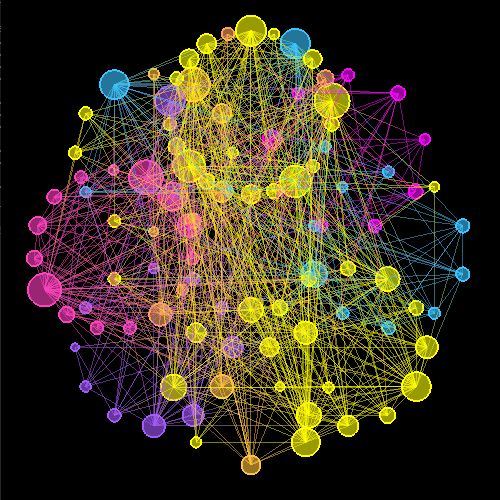
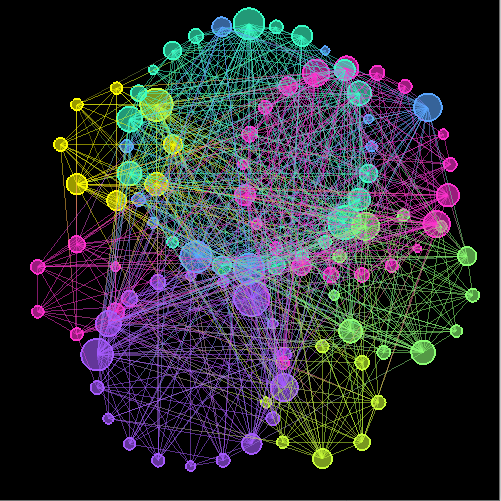
Improved vertex ring clustering

diff --git a/src/graphicobject.cpp b/src/graphicobject.cpp
@@ -31,10 +31,8 @@ void GraphicObject::WriteVertexRings(const std::vector<unsigned int>& communitie
     // param2: lower_bound of community radius
 
     float pi = 3.141592f;
-    const float global_radius = 0.55f;
-    const float global_angular_increment = 2.0f * pi / (float)n_communities;
-    const float param1 = 1.0f;
-    const float param2 = 0.3f;
+    const float param1 = 0.8f;
+    const float param2 = 0.02f;
 
     // membership: N_communities x N_members
 
@@ -47,10 +45,12 @@ void GraphicObject::WriteVertexRings(const std::vector<unsigned int>& communitie
 
     for (unsigned int i = 0; i < n_communities; ++i)
     {
-
+        const float frac_coeff = (float)membership[i].size() / (float)source_graph->dimension;
+        const float global_radius = std::pow((1.0f - frac_coeff), 2.0f) * param1;
+        const float global_angular_increment = 2.0f * pi / (float)n_communities;
         const float centre_x = global_radius * std::sin(float(i) * global_angular_increment);
 		const float centre_y = global_radius * std::cos(float(i) * global_angular_increment);
-        const float radius = ((param1 * membership[i].size()) / (n_vertices * (float)n_communities)) + param2;
+        const float radius = std::pow(frac_coeff - param2, 0.5f) - param2;
         const float angular_increment = 2.0f * pi / membership[i].size();
 
         for (unsigned int j = 0; j < membership[i].size(); ++j)

diff --git a/src/main.cpp b/src/main.cpp
@@ -25,10 +25,10 @@ int main(int argc, char **argv)
 
     // assign global GraphicObject
     Graph testgraph;
-    testgraph.GenerateLFRGraph(100, 4, 40, 2.5, 7, 2.5, 0.8);
+    testgraph.GenerateLFRGraph(100, 4, 40, 2.5, 7, 2.0, 0.2);
     testgraph.Louvain(testgraph, 0);
-    testgraph.GetMixingParameter(true);
-    testgraph.GetMixingParameter(false);
+    //testgraph.GetMixingParameter(true);
+    //testgraph.GetMixingParameter(false);
     GraphicObject g(testgraph);
     gl_input = &g;
 
